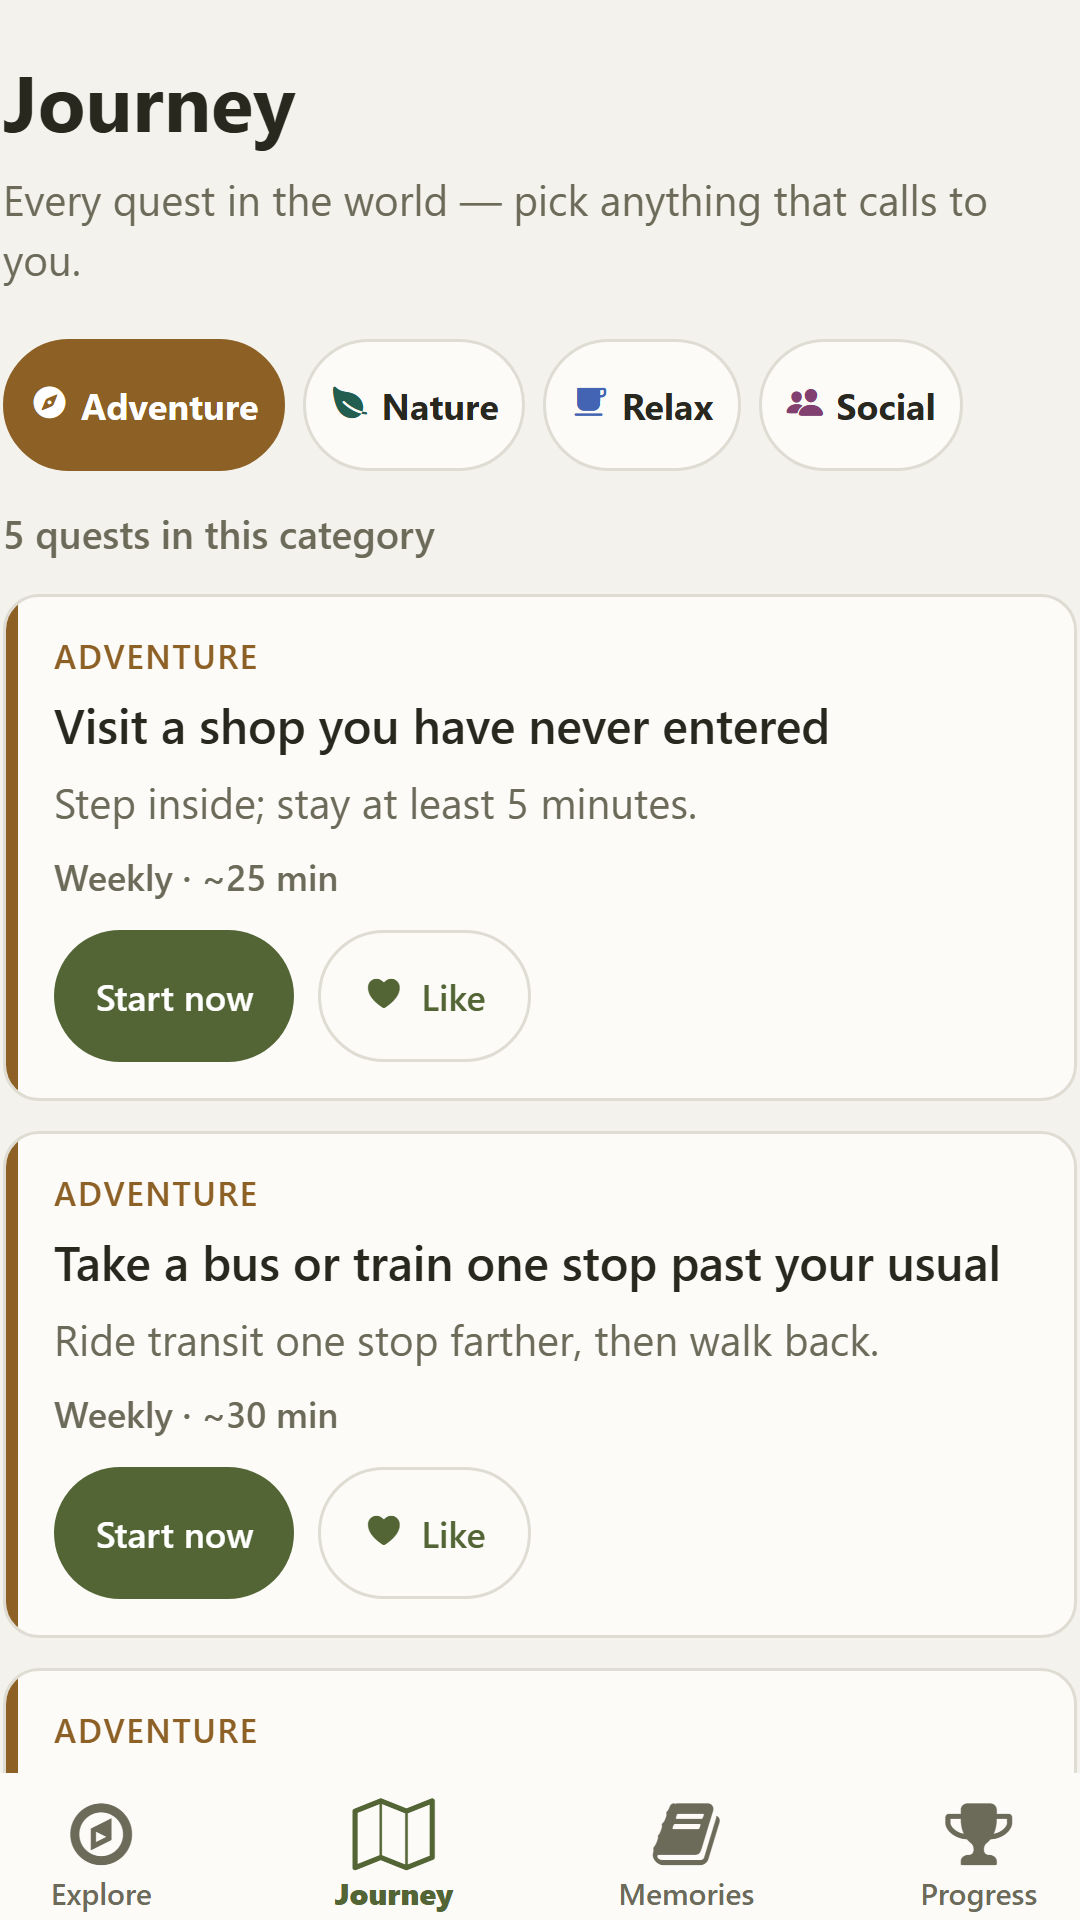
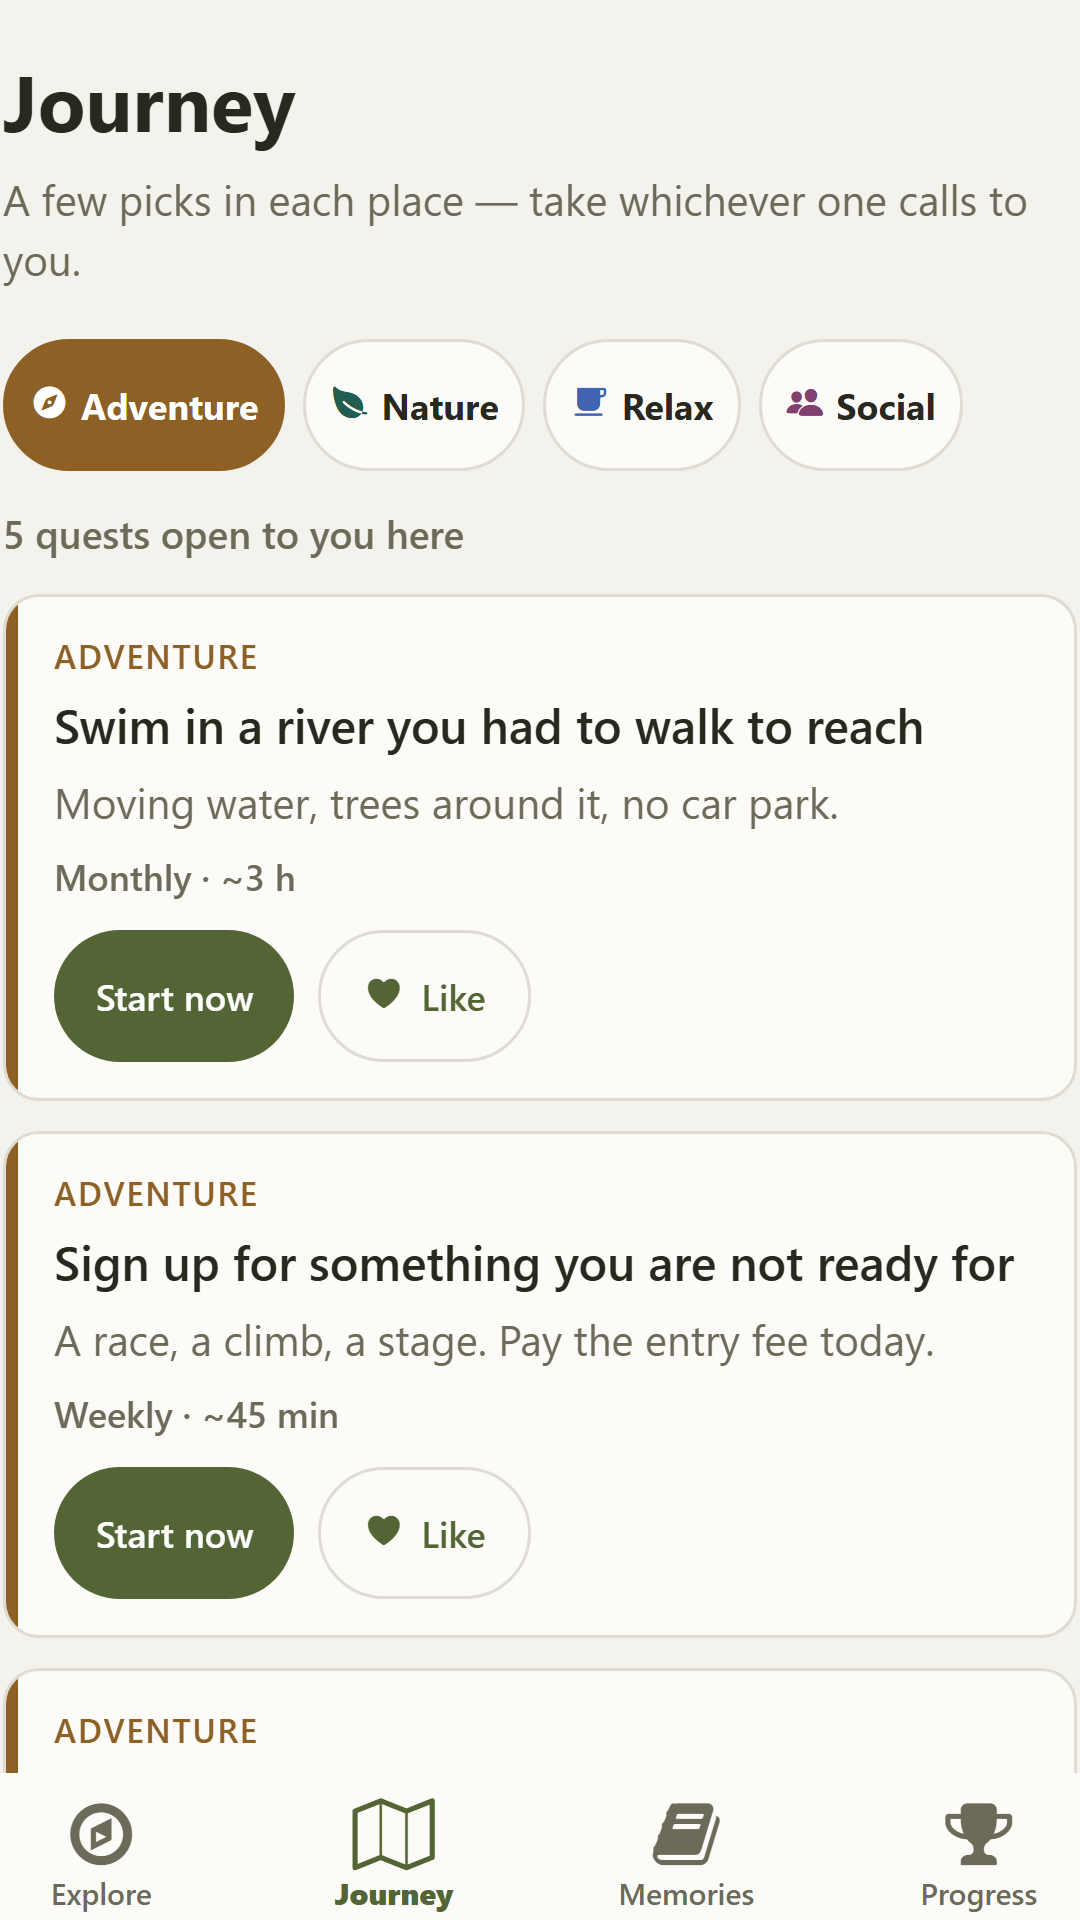
Retire dropped quests from Supabase, and audit what testing still needs
A quest deleted from the repo stayed live in the database forever: the
generated SQL only ever inserted and updated. That is not hypothetical.
q-m-04, "Digital sunset: no screens after 9 p.m. for three nights", was
removed from the catalogue on 2026-08-21 for breaking content rule 1 —
the abstention framing a round-1 tester had already flagged as wrong for
this app — and the one-off deactivation query was never run. Counting
the live table against the source today found it still active in Relax,
where with five slots per category it could take one of them.

quests_catalogue.sql now deactivates anything whose id is not in the
catalogue, so the generated file is authoritative rather than additive.
Deactivated rather than deleted, because user_quests rows point at these
ids and someone who did the quest should keep their history.

Found while auditing readiness for closed testing. The rest of that
audit, recorded in the two Play docs:

- App access needs no demo account. app/index.tsx signs in anonymously
  on first launch, and the live deployment's own session decodes to
  is_anonymous: true — so anonymous sign-in is enabled in Supabase and
  working in production, not merely permitted in the client. That
  retires a task that sat in the handoff and the roadmap for two weeks.
- Both legal pages are live and public on Vercel, auto-deploying from
  main. The feature graphic exists. Screenshots were from 1 September
[…]

diff --git a/app/legal/terms.tsx b/app/legal/terms.tsx
@@ -25,9 +25,12 @@ const SECTIONS: { heading: string; body: string }[] = [
   {
     heading: 'What the app is',
     body:
-      'Side Quest Life suggests small real-world activities ("quests") and helps you keep a record ' +
-      "of them. It's a personal companion, not a safety, medical, or professional service — quests " +
-      'happen in the real world, and you take part in them at your own judgment and risk.',
+      'Side Quest Life suggests real-world activities ("quests") and helps you keep a record of ' +
+      "them. It's a personal companion, not a safety, medical, or professional service. Some " +
+      'quests involve physical activity or risk — cold water, heights, being outdoors after dark, ' +
+      'or booking an activity with a commercial operator. Judging whether one is right for you, ' +
+      'and doing it safely, is yours to do: check the conditions, use licensed operators where ' +
+      "they're involved, and stop if something isn't right. You take part at your own risk.",
   },
   {
     heading: 'Your account',

diff --git a/constants/legal.ts b/constants/legal.ts
@@ -51,4 +51,4 @@ export const DATA_HOSTING_LOCATION =
   'Frankfurt, Germany (AWS eu-central-1), inside the European Union';
 
 /** Shown on every legal screen. Bump when any of them changes meaningfully. */
-export const LEGAL_LAST_UPDATED = 'August 2026';
+export const LEGAL_LAST_UPDATED = 'September 2026';

diff --git a/docs/play-store-handoff.md b/docs/play-store-handoff.md
@@ -34,27 +34,35 @@ Prepared 2026-09-05 so the next session is clicking, not deciding. Work top to b
 | Short description | `docs/store-listing-copy.md` — "Small real-world quests that pull you out of routine and into your life." | ✅ 72 / 80 characters |
 | Full description | `docs/store-listing-copy.md` | ✅ ~1,140 / 4,000 characters |
 | App icon 512×512 | `store-assets/play/icon-512.png` | ✅ Generated 2026-09-05 |
-| Phone screenshots | `store-assets/play/screenshots/` — lead with `03-explore.png` | ✅ Six at 1080×1920 |
-| Feature graphic 1024×500 | — | ❌ **Missing.** Needs design; blocked on `BRANDING.md` §4 |
+| Phone screenshots | `store-assets/play/screenshots/` — lead with `03-explore.png` | ✅ Six at 1080×1920, recaptured 2026-09-06 |
+| Feature graphic 1024×500 | `store-assets/play/feature-graphic/feature-graphic.png` | ✅ Generated 2026-09-05 |
 | Category | Lifestyle | From `docs/store-listing-copy.md` |
-| Privacy policy URL | — | ⛔ Blocked on the deploy |
+| Privacy policy URL | `https://sidequest-cyan.vercel.app/legal/privacy` | ✅ Live and public, verified 2026-09-06 |
+| Deletion URL | `https://sidequest-cyan.vercel.app/legal/delete-account` | ✅ Live and public, verified 2026-09-06 |
 
 ### App content — answers already derived
 
 - **Data safety** → §5 of this document. Full table, derived from the code
 - **Content rating (IARC)** → §6. Expect Everyone / PEGI 3
-- **App access** → §7. ⛔ Needs the demo account creating first
+- **App access** → §7. ✅ "Available without special access" — the app self-authenticates
 - **Ads** → declare none. No ad SDKs exist in the project
 - **Target audience** → not directed at children
 - Short declarations for news app, government app, financial features, health: all no
 
-### ⛔ The three things still genuinely missing
+### ⛔ What is still genuinely missing — one thing, plus a build
 
-1. **Domain decision** — decides the contact email and the public URLs. See below.
-2. **Demo/reviewer account** — a real account walked through onboarding with one quest completed and
-   one memory saved, so the reviewer does not land on empty states. Needs the app installable, so it
-   follows the first build.
-3. **Feature graphic** — the only listing asset that cannot be generated from what exists.
+Re-audited 2026-09-06 against the live deployment, the live database and EAS.
+
+1. **A contact mailbox that receives mail.** `constants/legal.ts` promises
+   `privacy@sidequestlife.com` and it does not exist, yet both published legal pages tell people to
+   write to it. This is the only item that blocks submission. See below.
+2. **A fresh build.** The newest AAB is `versionCode 6` from commit `f385e30` — twenty-two commits
+   behind `main`, so it contains none of the quest catalogue, none of the five-per-category rule and
+   none of the deep-link fixes. Whatever goes to testers has to be rebuilt.
+
+~~Demo/reviewer account~~ — not needed; the app signs in anonymously (§7).
+~~Feature graphic~~ — generated 2026-09-05.
+~~Deploy the web export~~ — live on Vercel and auto-deploying from `main`.
 
 ### The domain decision, framed for a quick answer
 
@@ -88,10 +96,10 @@ since they are static.
 | 2 | **Expo account + `npx eas-cli login`** | Needed before `eas init` can link the project. Takes a minute; I cannot do it because it requires your password. |
 | 3 | **Supabase: add `{{ .Token }}` to the reset-password email template** | See §2. Without it, password reset silently sends nothing. |
 | 4 | ~~**Fill the three privacy placeholders**~~ | ✅ Done 2026-08-29. One follow-up: make privacy@sidequestlife.com a real mailbox — see §3. |
-| 5 | **Deploy the web export** | Play needs public URLs for the privacy policy and account deletion. `vercel.json` is already configured; the routes already exist. See §4. |
+| 5 | ~~**Deploy the web export**~~ | ✅ Done. Live at `sidequest-cyan.vercel.app`, auto-deploying from `main`; both legal pages verified public 2026-09-06. |
 | 6 | ~~**Run `supabase/analytics_pii_scrub.sql`**~~ | ✅ Done 2026-08-29, both verification counts returned 0. See §2b for the one remaining catch. |
 | 7 | **Check whether the 12-tester rule applies to you** | Not a given — see §9. Find out early, because if it does apply it is the longest pole in the launch. |
-| 8 | **Create a demo account for the Google reviewer** | See §7. |
+| 8 | ~~**Create a demo account for the Google reviewer**~~ | ✅ Not needed — the app signs in anonymously on first launch. See §7. |
 
 ---
 
@@ -272,17 +280,34 @@ interact" is a policy violation, not a paperwork slip.
 
 ---
 
-## 7. Demo account for the Google reviewer
+## 7. App access — no demo account needed
 
-The app requires sign-in, so Play Console's **App access** section needs working credentials.
+**Answer: "All functionality is available without special access."**
 
-Create a normal account through the app's own sign-up (do not reuse your own), then:
-- Walk it through onboarding once, so the reviewer does not land on a blank first-run state.
-- Start and complete one quest and save one memory, so there is something to look at.
-- Put the email and password into **App access → All functionality is restricted**.
+~~The app requires sign-in, so App access needs working credentials.~~ **It does not.**
+`app/index.tsx` calls `supabase.auth.signInAnonymously()` on first launch whenever there is no
+session, so a reviewer who installs the app is signed in before they see a screen. No email, no
+password, no sign-up.
 
-Do **not** use the `EXPO_PUBLIC_DEV_LOGIN_*` credentials for this. Those are stripped from production
-builds on purpose (`app.config.ts`, verified 2026-08-29) and will not work in the build you upload.
+Verified on the live deployment 2026-09-06 rather than read off the code: the session that
+`sidequest-cyan.vercel.app` had created for itself decodes to `is_anonymous: true`,
+`role: authenticated`, no email — so anonymous sign-in is enabled in the Supabase project and
+working in production, not just permitted in the client.
+
+This retires the "demo account" task that sat in this document and in the roadmap (2.5) for two
+weeks. The reviewer will land on empty states — no quests done, no memories — which is simply what a
+new user sees, and is fine.
+
+Two things to keep in mind rather than act on:
+
+- The answer stops being true the moment anything real sits behind a required sign-in. If that
+  changes, this section changes with it.
+- If anonymous sign-in is ever turned off in Supabase, first launch falls through to the sign-in
+  screen and the app becomes credential-gated with no code change at all. Worth knowing before
+  touching that setting.
+
+Do **not** use the `EXPO_PUBLIC_DEV_LOGIN_*` credentials for anything here. Those are stripped from
+production builds on purpose (`app.config.ts`, verified 2026-08-29) and would not work anyway.
 
 ---
 

diff --git a/docs/play-store-roadmap.md b/docs/play-store-roadmap.md
@@ -160,7 +160,7 @@ inaccurate answer is a rejection risk. Answers for the two substantial ones are 
 
 - **Data safety** — handoff §5 has the full table, derived from the code
 - **Content rating (IARC)** — handoff §6, expect Everyone / PEGI 3
-- **App access** — reviewer credentials, since the app requires sign-in (handoff §7)
+- **App access** — "available without special access"; the app signs itself in anonymously (handoff §7)
 - **Ads** — no ads, no ad SDKs; declare none
 - **Target audience and content** — not directed at children; the privacy policy already says under-16 is not a target
 - Also expect short declarations for: news app (no), government app (no), financial features (none), health apps (none)
@@ -178,7 +178,7 @@ Gate: **0.2 done (Expo login).** Can run in parallel with Phase 1.
 | 2.2 | First production build: `eas build --platform android --profile production` | Claude | Produces an AAB. **The one real technical unknown left** |
 | 2.3 | Read the build output and confirm `targetSdkVersion` is 36 | Claude | Expected to pass — see the API level note below |
 | 2.4 | Deploy the web export so `/legal/privacy` and `/legal/delete-account` are public | Standa | `vercel.json` is ready; needs the domain from 0.3 |
-| 2.5 | Create the reviewer demo account and walk it through onboarding once | Claude + Standa | Not the dev-login credentials — those are stripped from production builds |
+| 2.5 | ~~Create the reviewer demo account~~ | — | ✅ Not needed. First launch signs in anonymously, so App access is "available without special access" — verified on the live deployment 2026-09-06, handoff §7 |
 
 ### 🚨 2.0 — the build will ship dead without this
 
